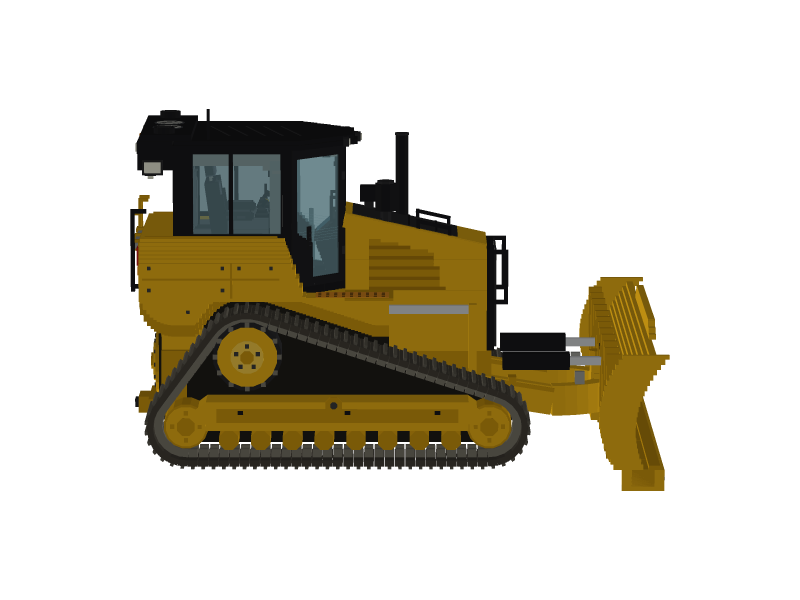
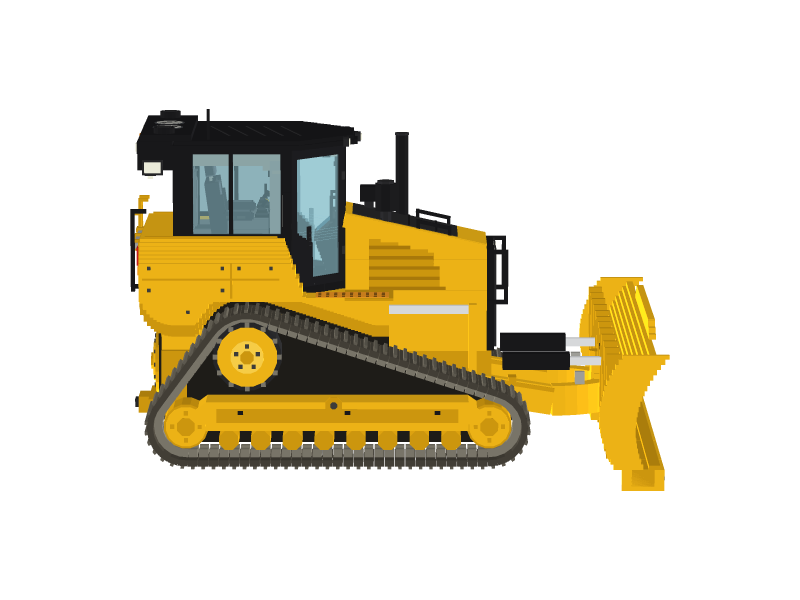
Brighten the camper and bulldozer side previews to match the other views

Changed region(s): [[0.1562, 0.24, 0.8438, 0.84], [0.1875, 0.18, 0.2188, 0.21]]

diff --git a/tools/render_preview.py b/tools/render_preview.py
@@ -49,6 +49,9 @@ CAMERA_DISTANCE = 6.0  # in multiples of the model's size; far enough to keep pe
 
 # Minecraft's fixed face shading: top faces full brightness, north/south 0.8, east/west 0.6, bottom 0.5.
 SHADE_UP, SHADE_DOWN, SHADE_Z, SHADE_X = 1.0, 0.5, 0.8, 0.6
+# A level side view shows almost only east/west faces, so the whole picture sits at 0.6. A pose can
+# set "brightness" to lift its faces back to the level of the other views.
+SIDE_BRIGHTNESS = 1.0 / SHADE_X
 
 SHADOW_LAYERS = 12
 SHADOW_ALPHA = 0.025  # per layer, so the center of the shadow is 0.3
@@ -127,7 +130,7 @@ CAMPER_TEXTURE = "textures/entity/yasu_ride/camper.png"
 CAMPER_POSES = {
     "camper-front-left.png": {"lamps": False, "dusk": False, "view": (-1.0, 0.65, -1.0), "screen_up": None},
     "camper-headlights.png": {"lamps": True, "dusk": True, "view": (-1.0, 0.65, -1.0), "screen_up": None},
-    "camper-side.png": {"lamps": False, "dusk": False, "view": (1.0, 0.15, 0.0001), "screen_up": None},
+    "camper-side.png": {"lamps": False, "dusk": False, "view": (1.0, 0.15, 0.0001), "screen_up": None, "brightness": SIDE_BRIGHTNESS},
     "camper-rear.png": {"lamps": False, "dusk": False, "view": (1.0, 0.6, 1.0), "screen_up": None},
 }
 
@@ -138,7 +141,7 @@ BULLDOZER_HIDDEN = ("track_r_1", "track_r_2", "track_l_1", "track_l_2", "propell
 BULLDOZER_POSES = {
     "bulldozer-front-left.png": {"lamps": False, "dusk": False, "view": (-1.0, 0.65, -1.0), "screen_up": None},
     "bulldozer-headlights.png": {"lamps": True, "dusk": True, "view": (-1.0, 0.65, -1.0), "screen_up": None},
-    "bulldozer-side.png": {"lamps": False, "dusk": False, "view": (1.0, 0.15, 0.0001), "screen_up": None},
+    "bulldozer-side.png": {"lamps": False, "dusk": False, "view": (1.0, 0.15, 0.0001), "screen_up": None, "brightness": SIDE_BRIGHTNESS},
     "bulldozer-rear.png": {"lamps": False, "dusk": False, "view": (1.0, 0.6, 1.0), "screen_up": None},
 }
 
@@ -390,7 +393,7 @@ def collect(geo, texture, folds, turns, pose):
                     rgb = LAMP_LIT if emissive == "lamp" else GLOW_LIT
                 else:
                     r, g, b, _ = face_color(texture, cube["uv"][face], desc["texture_width"], desc["texture_height"])
-                    k = shade(normalize(normal))
+                    k = shade(normalize(normal)) * pose.get("brightness", 1.0)
                     rgb = (r * k * tint[0], g * k * tint[1], b * k * tint[2])
                 polygons.append((quad, rgb, emissive))
     return polygons
@@ -479,7 +482,7 @@ def collect_boat(geo, texture, pose, lit=HEADLIGHTS_LIT):
                     polygons.append((quad, color, "lamp"))
                     continue
                 r, g, b, a = face_color(texture, cube["uv"][face], desc["texture_width"], desc["texture_height"])
-                k = shade(normalize(normal))
+                k = shade(normalize(normal)) * pose.get("brightness", 1.0)
                 rgb = (r * k * tint[0], g * k * tint[1], b * k * tint[2])
                 if a < 255:
                     glass.append((quad, rgb, a / 255))
